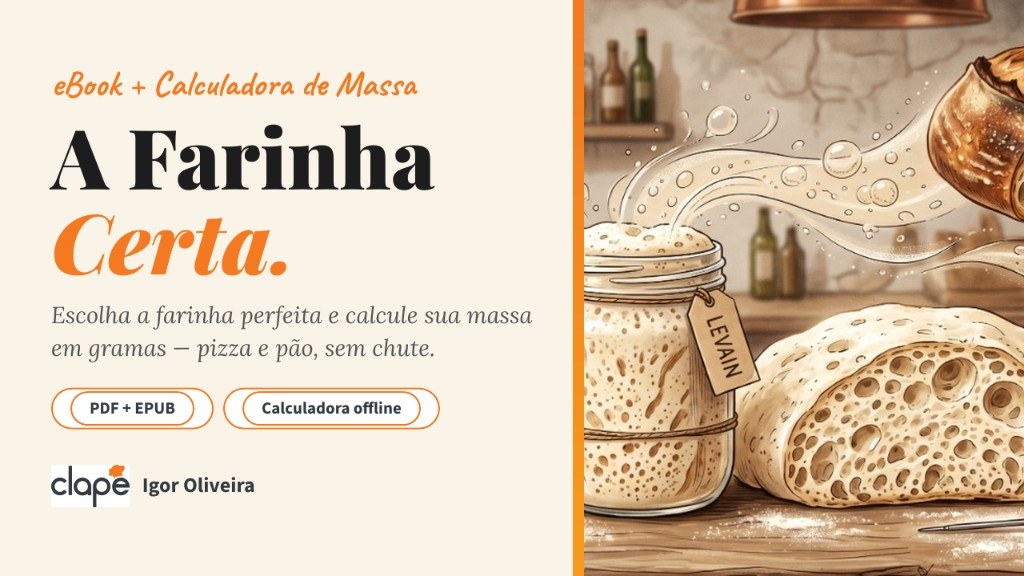
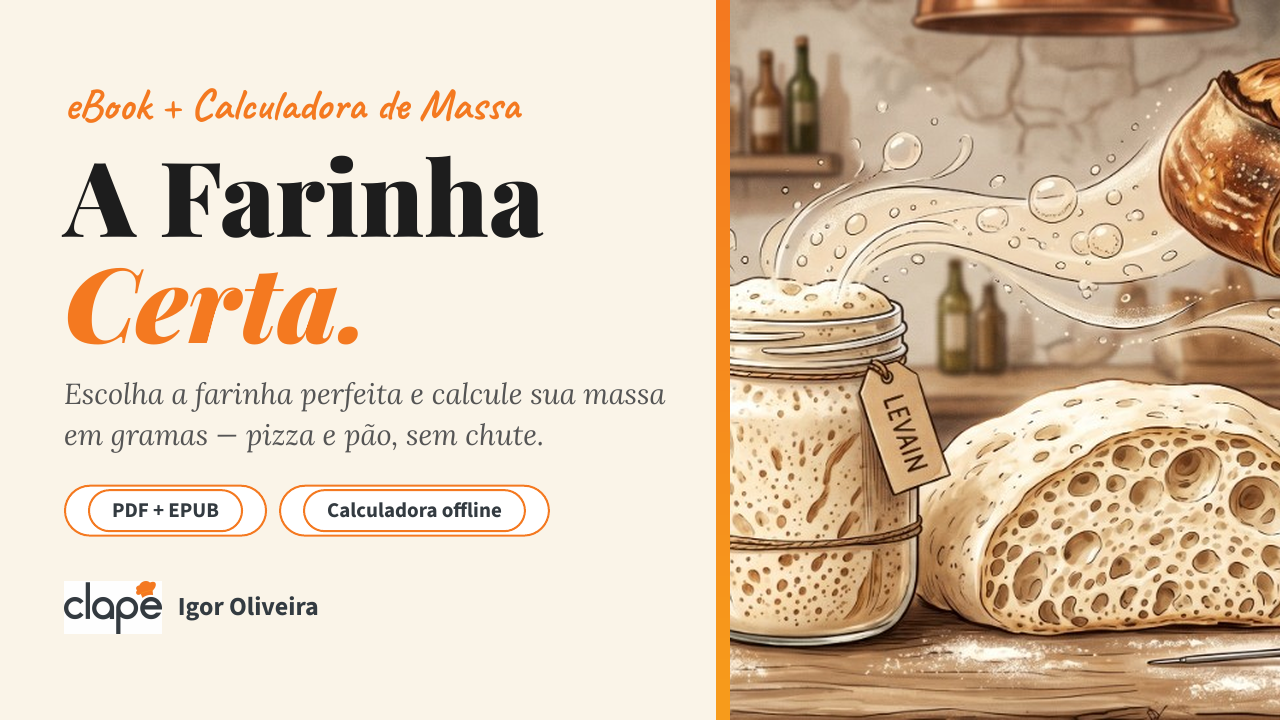
Atualiza página /farinha: Pizza Começa na Farinha, 12x R,17 ou R, CTA Hotmart

diff --git a/src/app/farinha/page.tsx b/src/app/farinha/page.tsx
@@ -74,7 +74,7 @@ export default function FarinhaPage() {
             />
             <p className="kicker">pra quem cansou de errar massa</p>
             <h1>
-              A Farinha <em>Certa.</em>
+              Pizza Começa <em>na Farinha.</em>
             </h1>
             <p className="sub lead">
               Escolha a farinha perfeita no supermercado brasileiro e calcule
@@ -83,9 +83,9 @@ export default function FarinhaPage() {
             </p>
             <CtaButton
               href={FARINHA_CHECKOUT_URL}
-              note="acesso imediato · garantia de 7 dias"
+              note="12× R$ 8,17 ou R$ 79 à vista · acesso imediato"
             >
-              QUERO A FARINHA CERTA — R$ 57
+              QUERO A FARINHA CERTA
             </CtaButton>
             <div className="hero-badges">
               <span className="badge">📕 PDF + EPUB</span>
@@ -96,14 +96,14 @@ export default function FarinhaPage() {
           <div className="hero-book">
             <Image
               src="/farinha/capa-livro.png"
-              alt="Capa do eBook A Farinha Certa, por Igor Oliveira"
+              alt="Capa do eBook Pizza Começa na Farinha, por Igor Oliveira"
               width={480}
               height={640}
               priority
             />
             <div className="seal">
-              <b>R$ 57</b>
-              <span>pagamento único</span>
+              <b>R$ 79</b>
+              <span>ou 12× R$ 8,17</span>
             </div>
           </div>
         </div>
@@ -147,7 +147,7 @@ export default function FarinhaPage() {
           <div className="cards">
             <div className="card">
               <div className="ico">📕</div>
-              <h3>eBook A Farinha Certa</h3>
+              <h3>eBook Pizza Começa na Farinha</h3>
               <p>
                 8 capítulos + anexos. W, P/L, proteína, rótulo BR, farinha por
                 estilo, diagnóstico de erros. PDF e EPUB.
@@ -258,7 +258,7 @@ export default function FarinhaPage() {
           <div className="oferta-box">
             <ul>
               <li>
-                <b>eBook A Farinha Certa</b> (PDF + EPUB) — R$ 67
+                <b>eBook Pizza Começa na Farinha</b> (PDF + EPUB) — R$ 67
               </li>
               <li>
                 <b>Calculadora de Massa v2</b> online — R$ 37
@@ -272,7 +272,7 @@ export default function FarinhaPage() {
             </ul>
             <p className="valor-de">valor total: R$ 148</p>
             <p className="valor">
-              R$ 57 <small>· pagamento único</small>
+              12× R$ 8,17 <small>ou R$ 79 à vista</small>
             </p>
             <p
               style={{
@@ -285,7 +285,7 @@ export default function FarinhaPage() {
             </p>
             <CtaButton
               href={FARINHA_CHECKOUT_URL}
-              note="compra segura via Hotmart"
+              note="12× R$ 8,17 ou R$ 79 à vista · compra segura via Hotmart"
             >
               GARANTIR MEU ACESSO AGORA
             </CtaButton>
@@ -319,9 +319,10 @@ export default function FarinhaPage() {
             <p>
               Desenvolve conteúdo prático para quem faz pizza e pão em casa e
               cansou de receitas em xícaras que nunca repetem o resultado. Em{" "}
-              <em>A Farinha Certa</em>, reuniu escolha de farinha (W, proteína,
-              rótulo BR), referências AVPN verificáveis e a Calculadora de Massa
-              online — gramas certos, sem prometer certificação napolitana.
+              <em>Pizza Começa na Farinha</em>, reuniu escolha de farinha (W,
+              proteína, rótulo BR), referências AVPN verificáveis e a Calculadora
+              de Massa online — gramas certos, sem prometer certificação
+              napolitana.
             </p>
           </div>
         </div>
@@ -356,9 +357,9 @@ export default function FarinhaPage() {
           </p>
           <CtaButton
             href={FARINHA_CHECKOUT_URL}
-            note="acesso imediato · garantia de 7 dias"
+            note="12× R$ 8,17 ou R$ 79 à vista · acesso imediato"
           >
-            QUERO A FARINHA CERTA — R$ 57
+            QUERO A FARINHA CERTA
           </CtaButton>
         </div>
       </section>

diff --git a/src/app/farinha/layout.tsx b/src/app/farinha/layout.tsx
@@ -38,11 +38,12 @@ const caveat = Caveat({
 });
 
 export const metadata: Metadata = {
-  title: "A Farinha Certa — eBook + Calculadora de Massa | Igor Oliveira · Clape",
+  title:
+    "Pizza Começa na Farinha — eBook + Calculadora de Massa | Igor Oliveira · Clape",
   description:
-    "Escolha a farinha certa e calcule sua massa em gramas. eBook + Calculadora online exclusiva. Napolitana, NY, romana e pão. Por Igor Oliveira — Clape.",
+    "Escolha a farinha certa no supermercado brasileiro e calcule sua massa em gramas. eBook + Calculadora online exclusiva. Napolitana, NY, romana e pão. Por Igor Oliveira — Clape.",
   openGraph: {
-    title: "A Farinha Certa — eBook + Calculadora de Massa",
+    title: "Pizza Começa na Farinha — eBook + Calculadora de Massa",
     description:
       "Escolha a farinha perfeita no supermercado brasileiro e calcule sua massa em gramas.",
     url: "https://clape.com.br/farinha",
@@ -51,7 +52,7 @@ export const metadata: Metadata = {
         url: "/farinha/capa-livro.png",
         width: 800,
         height: 1000,
-        alt: "Capa do eBook A Farinha Certa",
+        alt: "Capa do eBook Pizza Começa na Farinha",
       },
     ],
   },

diff --git a/src/lib/constants.ts b/src/lib/constants.ts
@@ -15,9 +15,9 @@ export const INSTAGRAM_URL = "https://www.instagram.com/clape.forno/";
 export const FACEBOOK_URL = "https://www.facebook.com/p/Clape-61556664961261/";
 export const YOUTUBE_URL = "https://www.youtube.com/@clapeforno";
 
-/** Checkout Hotmart — substitua pelo link real do produto */
+/** Checkout Hotmart — produto Pizza Começa na Farinha */
 export const FARINHA_CHECKOUT_URL =
-  process.env.NEXT_PUBLIC_FARINHA_CHECKOUT_URL ?? "#checkout";
+  "https://pay.hotmart.com/N107038173E?checkoutMode=2";
 export const FARINHA_SUPPORT_EMAIL = "contato@clape.com.br";
 
 export const NAV_LINKS = [
